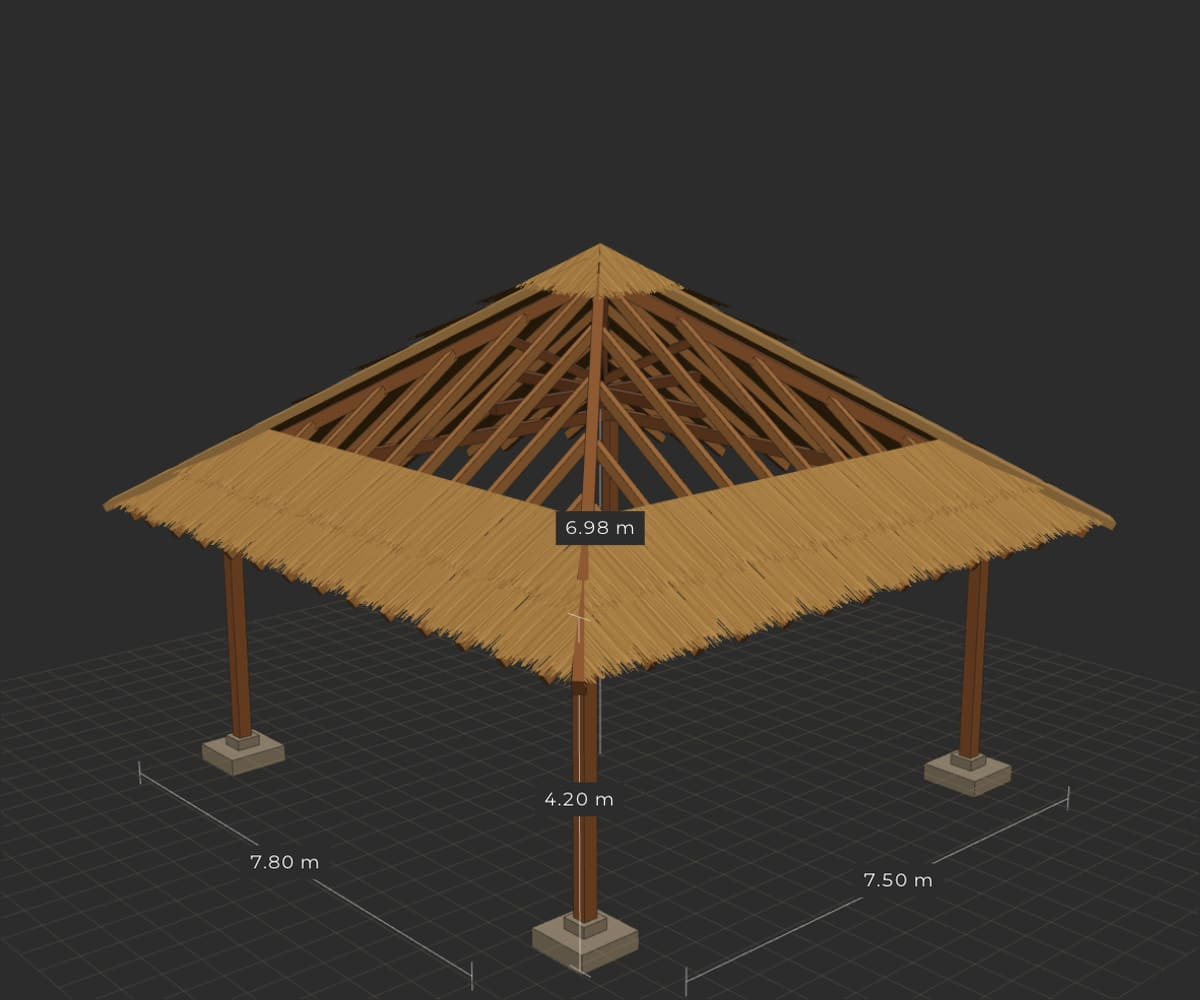
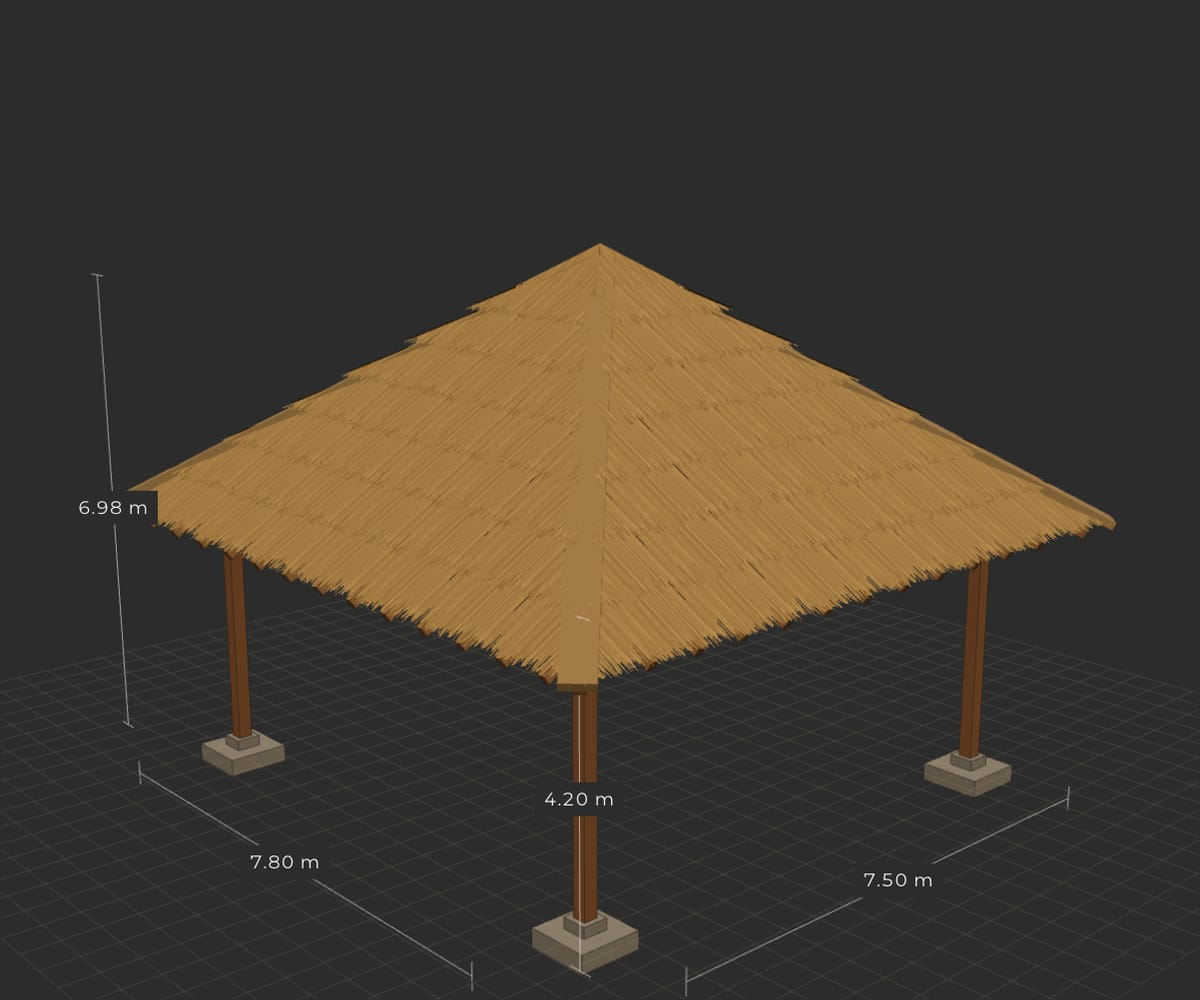
Anatomy: fully thatch the roof, move the 6.98 m label outside
The cutaway left the finished palapa looking bald. All four faces and hip
caps are now thatched; the apex dimension moves to an outside vertical so
it no longer floats over the roof. Poster regenerated.

Claude-Session: https://claude.ai/code/session_015bAdjZoXBvTEWVTrk59NbH

Changed region(s): [[0.2158, 0.279, 0.8017, 0.713], [0.0617, 0.465, 0.1542, 0.527], [0.185, 0.434, 0.2158, 0.465]]

diff --git a/src/components/AnatomyScene.jsx b/src/components/AnatomyScene.jsx
@@ -174,7 +174,7 @@ function buildThatch() {
   const lift = 0.3
   const A = V(0, APEX + lift, 0)
   const corner = (sx, sz) => V(sx * HX * E, APEX - RISE * E + lift, sz * HZ * E)
-  // [C1, C2, near?] — the two faces toward the final camera are cut away above the eave courses.
+  // [C1, C2, near?] — near flag kept for reference; all faces fully thatched (owner: no cutaway).
   const faces = [
     [corner(1, -1), corner(1, 1), true], [corner(1, 1), corner(-1, 1), true],
     [corner(-1, 1), corner(-1, -1), false], [corner(-1, -1), corner(1, -1), false],
@@ -183,7 +183,6 @@ function buildThatch() {
   for (let k = N - 1; k >= 0; k--) { // eave course first, as it is laid
     faces.forEach(([C1, C2, near]) => {
       const t1 = T0 + (k + 1) * band
-      if (near && t1 < 0.87) return
       const t0 = Math.max(0.02, t1 - band * 1.7)
       const stack = (N - k) * 0.025
       const { geo, n } = courseGeometry(A, C1, C2, t0, t1, stack, stack + 0.16)
@@ -198,11 +197,11 @@ function buildThatch() {
   return out
 }
 
-/** Hip caps: a palm ridge over each hip except the cut-away near one. */
+/** Hip caps: a palm ridge over each hip. */
 function buildHipCaps() {
   const E = 1 + (OV + 0.25) / HZ
   const top = (f, sx, sz) => V(sx * HX * E * f, APEX + 0.42 - RISE * E * f, sz * HZ * E * f)
-  return [[1, -1], [-1, -1], [-1, 1]].map(([sx, sz]) => member(top(0.02, sx, sz), top(1, sx, sz), [0.42, 0.12]))
+  return [[1, -1], [-1, -1], [-1, 1], [1, 1]].map(([sx, sz]) => member(top(0.02, sx, sz), top(1, sx, sz), [0.42, 0.12]))
 }
 
 // ---------- Dimensions (blueprint) ----------
@@ -218,7 +217,7 @@ const DIMS = [
   { text: '7.80 m', from: V(-HX, 0.02, HZ + 1.7), to: V(HX, 0.02, HZ + 1.7), step: 0, keep: true },
   { text: '7.50 m', from: V(HX + 1.7, 0.02, -HZ), to: V(HX + 1.7, 0.02, HZ), step: 0, keep: true },
   { text: '4.20 m', from: V(HX + 0.7, 0, HZ + 0.7), to: V(HX + 0.7, H, HZ + 0.7), step: 1, keep: true },
-  { text: '6.98 m', from: V(0, 0, 0), to: V(0, APEX, 0), step: 3, keep: true },
+  { text: '6.98 m', from: V(-HX - OV - 0.9, 0, HZ + 0.9), to: V(-HX - OV - 0.9, APEX, HZ + 0.9), step: 3, keep: true },
   { text: '1.00 m', from: V(HX, H - 1.05, 0.3), to: V(HX + OV, H - 1.05, 0.3), step: 4 },
   { text: '0.735 m', from: V(HX + OV + 0.15, H - RISE * (OV / HX) - 0.25, 0), to: V(HX + OV + 0.15, H - RISE * (OV / HX) - 0.25, SP), step: 4 },
   { text: '4.02 m', from: V(-2.01, TIE_Y - 0.4, 0), to: V(2.01, TIE_Y - 0.4, 0), step: 5 },
